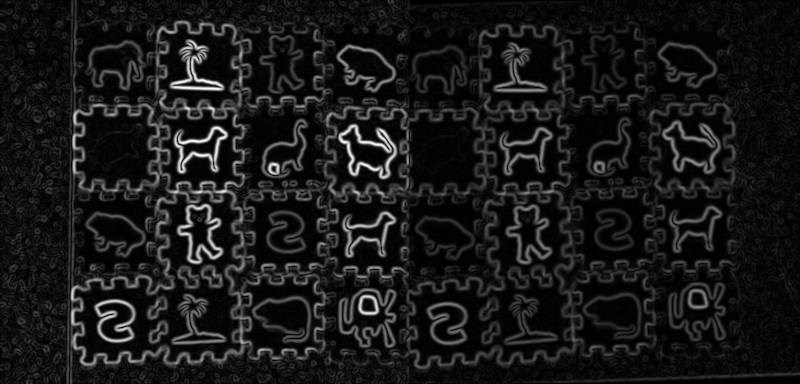
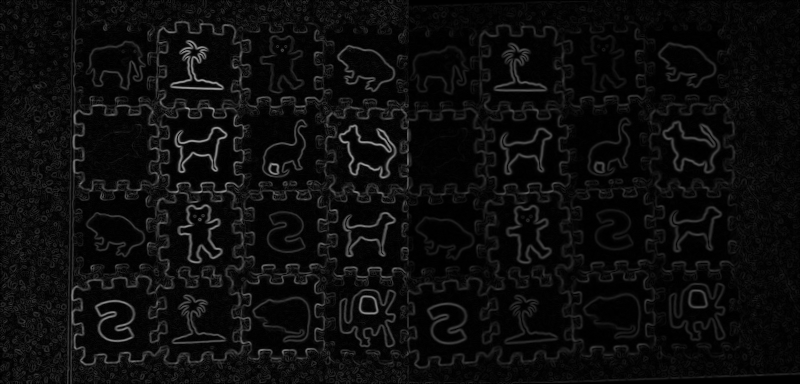
feat: improve bear localization

diff --git a/src/cpp-opencv/exercises/template-matching/marca_urso.cpp b/src/cpp-opencv/exercises/template-matching/marca_urso.cpp
@@ -3,16 +3,26 @@
 
 Mat_<float> preprocessaParaMatching(const Mat_<float> &src)
 {
-    Mat_<float> borrada;
-    GaussianBlur(src, borrada, Size(5, 5), 0.0);
+    Mat_<float> mx = (Mat_<float>(3, 3) << -3.0, 0.0, +3.0,
+                      -10.0, 0.0, +10.0,
+                      -3.0, 0.0, +3.0);
+    mx = mx / 16.0;
+    Mat_<float> my = (Mat_<float>(3, 3) << -3.0, -10.0, -3.0,
+                      0.0, 0.0, 0.0,
+                      +3.0, +10.0, +3.0);
+    my = my / 16.0;
 
-    Mat_<float> gx, gy, mag;
-    Sobel(borrada, gx, CV_32F, 1, 0, 3);
-    Sobel(borrada, gy, CV_32F, 0, 1, 3);
-    magnitude(gx, gy, mag);
-    normalize(mag, mag, 0.0, 1.0, NORM_MINMAX);
+    Mat_<float> gx = filtro2d(src, mx);
+    Mat_<float> gy = filtro2d(src, my);
 
-    return mag;
+    Mat_<float> gx2;
+    pow(gx, 2, gx2);
+    Mat_<float> gy2;
+    pow(gy, 2, gy2);
+    Mat_<float> modgrad;
+    pow(gx2 + gy2, 0.5, modgrad);
+
+    return modgrad;
 }
 
 Mat_<Vec3f> marca(Mat_<float> a, Mat_<float> p, float limiar)
